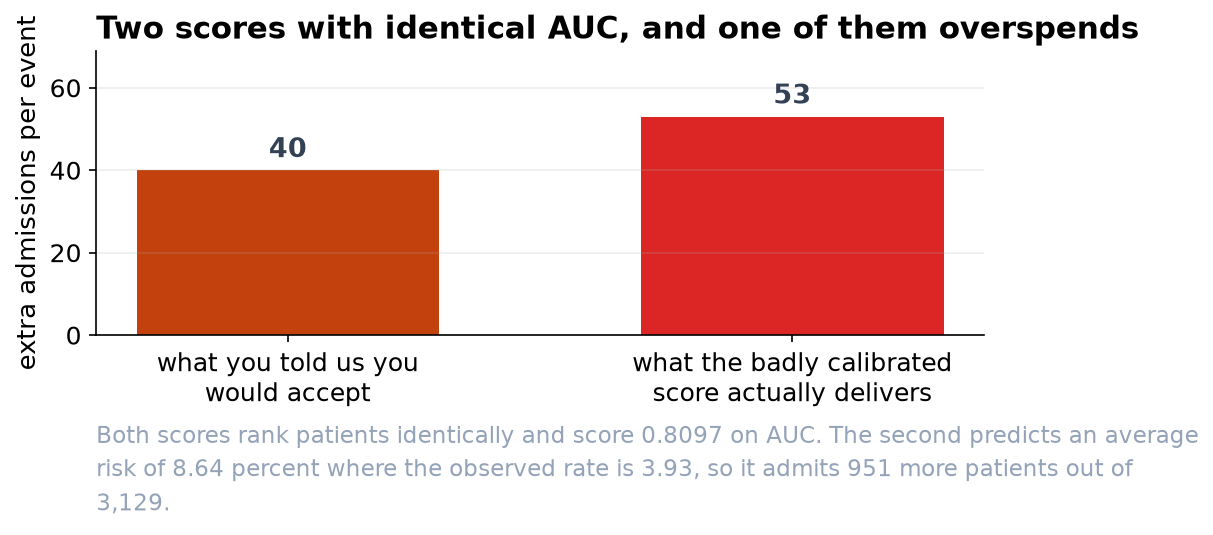
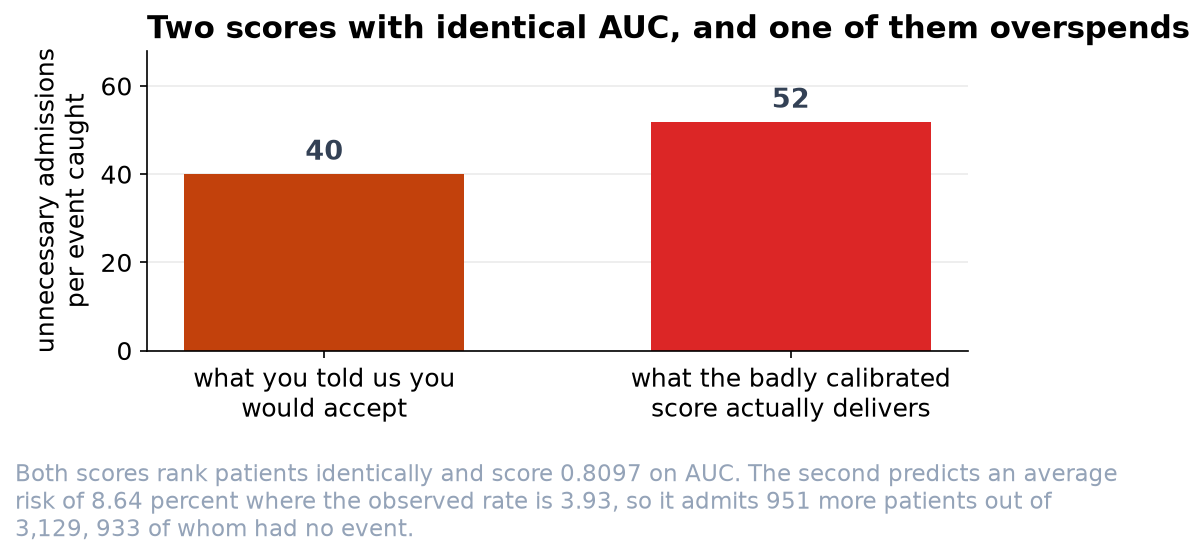
Correct ten points in Capstone: Logistic Regression for Decisions: Clinical Risk Scoring
Youden's index weighs the errors by the prevalence (about 24 to 1, now
printed), not 1:1. Model B's net benefit turns negative just above 10
percent (now printed), not at 15. Model B applies a lower threshold, not
a stricter one. The 40:1 tolerance is compared with unnecessary
admissions per event caught, 51.8 (933 of the 951, now printed), and
the brief's Figure 2 is redrawn at 52. The cleaning removes 34 zero
blood pressures (now printed). Diabetes sits just above a third of a
standard deviation, and smoking and male sex raise the event rate by
about half. Subgroup calibration points to Capstone 41. The brief's
'nine hundred a year' becomes 951 of 3,129, and the workbook Notes say
identical AUC and that the data were written for the book.

diff --git a/chapters/notebooks/html/capstone-clinical-risk-scoring.html b/chapters/notebooks/html/capstone-clinical-risk-scoring.html
@@ -8087,6 +8087,8 @@ C8 EXCLUSIONS: duplicate records, systolic BP of 0 (cuff fault) and heart rate o
 <div class="highlight hl-ipython3"><pre><span></span><span class="n">d</span> <span class="o">=</span> <span class="n">raw</span><span class="o">.</span><span class="n">drop_duplicates</span><span class="p">(</span><span class="n">subset</span><span class="o">=</span><span class="s2">"patient_id"</span><span class="p">)</span><span class="o">.</span><span class="n">copy</span><span class="p">()</span>
 <span class="nb">print</span><span class="p">(</span><span class="sa">f</span><span class="s2">"raw rows                </span><span class="si">{</span><span class="nb">len</span><span class="p">(</span><span class="n">raw</span><span class="p">)</span><span class="si">:</span><span class="s2">,</span><span class="si">}</span><span class="s2">"</span><span class="p">)</span>
 <span class="nb">print</span><span class="p">(</span><span class="sa">f</span><span class="s2">"after the duplicate extract </span><span class="si">{</span><span class="nb">len</span><span class="p">(</span><span class="n">d</span><span class="p">)</span><span class="si">:</span><span class="s2">,</span><span class="si">}</span><span class="s2">"</span><span class="p">)</span>
+<span class="nb">print</span><span class="p">(</span><span class="sa">f</span><span class="s2">"  blood pressures of 0    </span><span class="si">{</span><span class="p">(</span><span class="n">d</span><span class="o">.</span><span class="n">systolic_bp</span><span class="w"> </span><span class="o">==</span><span class="w"> </span><span class="mi">0</span><span class="p">)</span><span class="o">.</span><span class="n">sum</span><span class="p">()</span><span class="si">}</span><span class="s2">"</span><span class="p">)</span>
+<span class="nb">print</span><span class="p">(</span><span class="sa">f</span><span class="s2">"  heart rates of 999      </span><span class="si">{</span><span class="p">(</span><span class="n">d</span><span class="o">.</span><span class="n">heart_rate</span><span class="w"> </span><span class="o">==</span><span class="w"> </span><span class="mi">999</span><span class="p">)</span><span class="o">.</span><span class="n">sum</span><span class="p">()</span><span class="si">}</span><span class="s2">"</span><span class="p">)</span>
 <span class="n">d</span><span class="o">.</span><span class="n">loc</span><span class="p">[</span><span class="n">d</span><span class="o">.</span><span class="n">systolic_bp</span> <span class="o">==</span> <span class="mi">0</span><span class="p">,</span> <span class="s2">"systolic_bp"</span><span class="p">]</span> <span class="o">=</span> <span class="n">np</span><span class="o">.</span><span class="n">nan</span>      <span class="c1"># cuff fault, not a blood pressure</span>
 <span class="n">d</span><span class="o">.</span><span class="n">loc</span><span class="p">[</span><span class="n">d</span><span class="o">.</span><span class="n">heart_rate</span> <span class="o">==</span> <span class="mi">999</span><span class="p">,</span> <span class="s2">"heart_rate"</span><span class="p">]</span> <span class="o">=</span> <span class="n">np</span><span class="o">.</span><span class="n">nan</span>      <span class="c1"># monitor sentinel</span>
 <span class="n">d</span> <span class="o">=</span> <span class="n">d</span><span class="o">.</span><span class="n">dropna</span><span class="p">(</span><span class="n">subset</span><span class="o">=</span><span class="p">[</span><span class="s2">"systolic_bp"</span><span class="p">,</span> <span class="s2">"heart_rate"</span><span class="p">])</span>
@@ -8112,6 +8114,8 @@ C8 EXCLUSIONS: duplicate records, systolic BP of 0 (cuff fault) and heart rate o
 <div class="jp-RenderedText jp-OutputArea-output" data-mime-type="text/plain" tabindex="0">
 <pre>raw rows                9,060
 after the duplicate extract 9,000
+  blood pressures of 0    34
+  heart rates of 999      28
 after voiding vitals sentinels 8,938
 
 troponin assay not run  138   kept, with an indicator
@@ -8196,7 +8200,7 @@ event rate              3.94%   (352 events in 8,938 presentations)
 </div>
 <div class="jp-InputArea jp-Cell-inputArea"><div class="jp-InputPrompt jp-InputArea-prompt">
 </div><div class="jp-RenderedHTMLCommon jp-RenderedMarkdown jp-MarkdownOutput" data-mime-type="text/markdown">
-<p><strong>What this shows.</strong> Under four percent of these patients have an event, so any score is looking for a small group inside a large one. Troponin and age separate the two groups most clearly, and the classic risk factors separate them a good deal less than their reputation suggests: prior heart attack, smoking and diabetes all sit below a third of a standard deviation.</p>
+<p><strong>What this shows.</strong> Under four percent of these patients have an event, so any score is looking for a small group inside a large one. Troponin and age separate the two groups most clearly, and the classic risk factors separate them a good deal less than their reputation suggests: prior heart attack and smoking sit below a third of a standard deviation, and diabetes only just above it.</p>
 <p>The last block is worth reading carefully, because it is a check that came back clean. Patients whose troponin was never ordered turn out to look like everyone else: same median age, an event rate of 3.6 percent against 3.9, and a standardized difference of essentially zero. That does not make the decision in Step 2 wrong. It is the reason the decision was worth making rather than assuming, because had those 138 people differed, dropping them would have quietly changed who the score is for.</p>
 </div>
 </div>
@@ -8294,7 +8298,7 @@ event rate              3.94%   (352 events in 8,938 presentations)
 <div class="jp-InputArea jp-Cell-inputArea"><div class="jp-InputPrompt jp-InputArea-prompt">
 </div><div class="jp-RenderedHTMLCommon jp-RenderedMarkdown jp-MarkdownOutput" data-mime-type="text/markdown">
 <p><strong>Top left:</strong> the two distributions are shifted but they share most of their range, which is what a realistic clinical marker looks like. A score built on it will rank patients usefully and will not sort them into safe and unsafe. <strong>Top right:</strong> the oldest band runs several times the risk of the youngest and is still in single figures.</p>
-<p><strong>Bottom left:</strong> age and troponin do most of the separating. Note where <code>trop missing</code> sits, at almost exactly zero: the patients whose assay was never ordered look like everyone else, which is a check that came back clean rather than a non-event. Had they differed, dropping them in Step 2 would have quietly changed who the score is for. <strong>Bottom right:</strong> the classic risk factors, each on its own. Every one of them roughly doubles the event rate and ECG ischemia nearly triples it, and yet the highest bar on the panel is under nine percent. Having the marker is a long way from having the event.</p>
+<p><strong>Bottom left:</strong> age and troponin do most of the separating. Note where <code>trop missing</code> sits, at almost exactly zero: the patients whose assay was never ordered look like everyone else, which is a check that came back clean rather than a non-event. Had they differed, dropping them in Step 2 would have quietly changed who the score is for. <strong>Bottom right:</strong> the classic risk factors, each on its own. Prior heart attack and diabetes roughly double the event rate, smoking and male sex raise it by about half, and ECG ischemia nearly triples it, and yet the highest bar on the panel is under nine percent. Having the marker is a long way from having the event.</p>
 <p>That is the setting for everything that follows: the decision is never between certain and impossible, it is about where to put a threshold when most people above it will turn out to have been fine.</p>
 </div>
 </div>
@@ -8575,6 +8579,11 @@ It is the wrong summary for any decision where the two errors differ in cost.
 <span class="n">extra_caught</span> <span class="o">=</span> <span class="n">res</span><span class="p">[</span><span class="s2">"model B, inflated"</span><span class="p">][</span><span class="mi">1</span><span class="p">]</span> <span class="o">-</span> <span class="n">res</span><span class="p">[</span><span class="s2">"model A, calibrated"</span><span class="p">][</span><span class="mi">1</span><span class="p">]</span>
 <span class="nb">print</span><span class="p">(</span><span class="sa">f</span><span class="s2">"</span><span class="se">\n</span><span class="s2">Model B admits </span><span class="si">{</span><span class="n">extra_adm</span><span class="si">}</span><span class="s2"> more patients and catches </span><span class="si">{</span><span class="n">extra_caught</span><span class="si">}</span><span class="s2"> more events:"</span><span class="p">)</span>
 <span class="nb">print</span><span class="p">(</span><span class="sa">f</span><span class="s2">"   </span><span class="si">{</span><span class="n">extra_adm</span><span class="o">/</span><span class="n">extra_caught</span><span class="si">:</span><span class="s2">.0f</span><span class="si">}</span><span class="s2"> extra admissions per extra event caught."</span><span class="p">)</span>
+<span class="n">extra_unnec</span> <span class="o">=</span> <span class="n">extra_adm</span> <span class="o">-</span> <span class="n">extra_caught</span>
+<span class="nb">print</span><span class="p">(</span><span class="sa">f</span><span class="s2">"   </span><span class="si">{</span><span class="n">extra_unnec</span><span class="si">}</span><span class="s2"> of them had no event, </span><span class="si">{</span><span class="n">extra_unnec</span><span class="o">/</span><span class="n">extra_caught</span><span class="si">:</span><span class="s2">.1f</span><span class="si">}</span><span class="s2"> unnecessary admissions per extra event,"</span><span class="p">)</span>
+<span class="nb">print</span><span class="p">(</span><span class="sa">f</span><span class="s2">"   where the threshold allows </span><span class="si">{</span><span class="n">RATIO</span><span class="si">}</span><span class="s2">."</span><span class="p">)</span>
+<span class="nb">print</span><span class="p">(</span><span class="sa">f</span><span class="s2">"</span><span class="se">\n</span><span class="s2">Youden's index weighs a missed event at (1 - p)/p = </span><span class="si">{</span><span class="p">(</span><span class="mi">1</span><span class="w"> </span><span class="o">-</span><span class="w"> </span><span class="n">yte</span><span class="o">.</span><span class="n">mean</span><span class="p">())</span><span class="o">/</span><span class="n">yte</span><span class="o">.</span><span class="n">mean</span><span class="p">()</span><span class="si">:</span><span class="s2">.1f</span><span class="si">}</span><span class="s2"> unnecessary admissions,"</span><span class="p">)</span>
+<span class="nb">print</span><span class="p">(</span><span class="s2">"a ratio set by the prevalence that nobody chose."</span><span class="p">)</span>
 </pre></div>
 </div>
 </div>
@@ -8596,6 +8605,11 @@ threshold = 1/(1+40) = 0.0244, so admit above 2.4% risk
 
 Model B admits 951 more patients and catches 18 more events:
    53 extra admissions per extra event caught.
+   933 of them had no event, 51.8 unnecessary admissions per extra event,
+   where the threshold allows 40.
+
+Youden's index weighs a missed event at (1 - p)/p = 24.4 unnecessary admissions,
+a ratio set by the prevalence that nobody chose.
 </pre>
 </div>
 </div>
@@ -8608,7 +8622,7 @@ Model B admits 951 more patients and catches 18 more events:
 </div>
 <div class="jp-InputArea jp-Cell-inputArea"><div class="jp-InputPrompt jp-InputArea-prompt">
 </div><div class="jp-RenderedHTMLCommon jp-RenderedMarkdown jp-MarkdownOutput" data-mime-type="text/markdown">
-<p><strong>Model B misses nothing, and that is not the good news it looks like.</strong> It buys those eighteen events at fifty-three extra admissions each. The clinicians said forty. <strong>A miscalibrated model does not become more cautious, it silently applies a different threshold than the one the clinical team chose</strong>, and nobody in the room knows the trade-off has been changed.</p>
+<p><strong>Model B misses nothing, and that is not the good news it looks like.</strong> It buys those eighteen events with 933 admissions of patients who had no event, about fifty-two for each event caught. The clinicians said forty. <strong>A miscalibrated model does not become more cautious, it silently applies a different threshold than the one the clinical team chose</strong>, and nobody in the room knows the trade-off has been changed.</p>
 <p>That is the practical damage calibration error does. It does not show up as a worse ranking. It shows up as a rule that no longer implements the decision it was asked to implement.</p>
 </div>
 </div>
@@ -8642,6 +8656,8 @@ Model B admits 951 more patients and catches 18 more events:
     <span class="n">nb_all</span> <span class="o">=</span> <span class="n">yte</span><span class="o">.</span><span class="n">mean</span><span class="p">()</span> <span class="o">-</span> <span class="p">(</span><span class="mi">1</span><span class="o">-</span><span class="n">yte</span><span class="o">.</span><span class="n">mean</span><span class="p">())</span><span class="o">*</span><span class="p">(</span><span class="n">t_</span><span class="o">/</span><span class="p">(</span><span class="mi">1</span><span class="o">-</span><span class="n">t_</span><span class="p">))</span>
     <span class="nb">print</span><span class="p">(</span><span class="sa">f</span><span class="s2">"</span><span class="si">{</span><span class="n">t_</span><span class="si">:</span><span class="s2">&gt;10.4f</span><span class="si">}{</span><span class="n">net_benefit</span><span class="p">(</span><span class="n">pA</span><span class="p">,</span><span class="n">yte</span><span class="p">,</span><span class="n">t_</span><span class="p">)</span><span class="si">:</span><span class="s2">&gt;10.4f</span><span class="si">}{</span><span class="n">net_benefit</span><span class="p">(</span><span class="n">pB</span><span class="p">,</span><span class="n">yte</span><span class="p">,</span><span class="n">t_</span><span class="p">)</span><span class="si">:</span><span class="s2">&gt;10.4f</span><span class="si">}</span><span class="s2">"</span>
           <span class="sa">f</span><span class="s2">"</span><span class="si">{</span><span class="n">nb_all</span><span class="si">:</span><span class="s2">&gt;12.4f</span><span class="si">}{</span><span class="mf">0.0</span><span class="si">:</span><span class="s2">&gt;12.4f</span><span class="si">}</span><span class="s2">"</span><span class="p">)</span>
+<span class="n">cross</span> <span class="o">=</span> <span class="nb">next</span><span class="p">(</span><span class="n">t_</span> <span class="k">for</span> <span class="n">t_</span> <span class="ow">in</span> <span class="n">np</span><span class="o">.</span><span class="n">arange</span><span class="p">(</span><span class="mf">0.05</span><span class="p">,</span> <span class="mf">0.20</span><span class="p">,</span> <span class="mf">0.001</span><span class="p">)</span> <span class="k">if</span> <span class="n">net_benefit</span><span class="p">(</span><span class="n">pB</span><span class="p">,</span> <span class="n">yte</span><span class="p">,</span> <span class="n">t_</span><span class="p">)</span> <span class="o">&lt;</span> <span class="mi">0</span><span class="p">)</span>
+<span class="nb">print</span><span class="p">(</span><span class="sa">f</span><span class="s2">"</span><span class="se">\n</span><span class="s2">model B's net benefit first falls below zero at a threshold of </span><span class="si">{</span><span class="n">cross</span><span class="si">:</span><span class="s2">.1%</span><span class="si">}</span><span class="s2">"</span><span class="p">)</span>
 </pre></div>
 </div>
 </div>
@@ -8661,6 +8677,8 @@ Model B admits 951 more patients and catches 18 more events:
     0.0700    0.0116    0.0052     -0.0330      0.0000
     0.1000    0.0069    0.0003     -0.0674      0.0000
     0.1500    0.0053   -0.0037     -0.1302      0.0000
+
+model B's net benefit first falls below zero at a threshold of 10.1%
 </pre>
 </div>
 </div>
@@ -8866,7 +8884,7 @@ on the training set it would have looked like a small improvement, every time.
 </div>
 <div class="jp-InputArea jp-Cell-inputArea"><div class="jp-InputPrompt jp-InputArea-prompt">
 </div><div class="jp-RenderedHTMLCommon jp-RenderedMarkdown jp-MarkdownOutput" data-mime-type="text/markdown">
-<p><strong>Left:</strong> net benefit across every threshold a clinician might hold. Model A is above model B throughout, and both are above the two trivial strategies in the region that matters. <strong>Right:</strong> the same threshold applied to both models. Model B misses no events and admits 951 more people to do it, which is fifty-three extra admissions for each extra event, against a stated tolerance of forty.</p>
+<p><strong>Left:</strong> net benefit across every threshold a clinician might hold. Model A is above model B throughout, and both are above the two trivial strategies in the region that matters. <strong>Right:</strong> the same threshold applied to both models. Model B misses no events and admits 951 more people to do it, 933 of whom had no event, which is about fifty-two unnecessary admissions for each extra event caught, against a stated tolerance of forty.</p>
 </div>
 </div>
 </div>
@@ -8884,7 +8902,7 @@ on the training set it would have looked like a small improvement, every time.
 <li><strong>Never quote accuracy on an imbalanced outcome.</strong> Sending everybody home scores 96.1 percent here.</li>
 <li><strong>Validate on data the model has never seen, and say so.</strong> A decoy variable with no real effect improves training performance every single time.</li>
 <li><strong>A risk score is not a diagnosis.</strong> It estimates a rate in a group of similar patients, and no individual has a 4 percent event. The score belongs alongside clinical judgment, not in place of it.</li>
-<li><strong>Check who the model works for.</strong> This analysis reports one AUC and one calibration curve for the whole cohort. Performance can differ substantially by age, sex or ethnicity, and a score that is well calibrated on average can be badly calibrated for a subgroup that the average conceals. Capstone 33 takes that up directly.</li>
+<li><strong>Check who the model works for.</strong> This analysis reports one AUC and one calibration curve for the whole cohort. Performance can differ substantially by age, sex or ethnicity, and a score that is well calibrated on average can be badly calibrated for a subgroup that the average conceals. Capstone 41, the fairness audit, takes that up directly.</li>
 </ul>
 </div>
 </div>

diff --git a/chapters/capstone-clinical-risk-scoring.html b/chapters/capstone-clinical-risk-scoring.html
@@ -135,8 +135,8 @@
         <p>Two models, <strong>AUC 0.8097 both</strong>, identical to four decimals. One predicts a mean risk of
            <strong>3.93 percent</strong> against an observed <strong>3.93 percent</strong>. The other predicts
            <strong>8.64 percent</strong>. At the clinicians' own threshold the second admits <strong>951 more
-           patients</strong> to catch 18 more events, which is 53 admissions each against a stated tolerance of
-           40.</p></div>
+           patients</strong> to catch 18 more events. 933 of them had no event, about 52 unnecessary admissions per event caught,
+           against a stated tolerance of 40.</p></div>
     </div>
   </section>
 
@@ -153,13 +153,13 @@
         <tr><th>The default</th><th>Why it fails here</th></tr>
         <tr><td class="nm">Report accuracy</td><td>The event rate is 3.9 percent. Sending everybody home scores 96.1 percent</td></tr>
         <tr class="hi"><td class="nm">Report AUC</td><td>Answers a question about ranking. The decision needs the level</td></tr>
-        <tr><td class="nm">Pick the threshold from the ROC curve</td><td>Youden's index encodes a cost ratio of 1:1, silently, and nobody agreed to that</td></tr>
+        <tr><td class="nm">Pick the threshold from the ROC curve</td><td>Youden's index weighs the two errors by the prevalence, about 24 to 1 here, and nobody agreed to that</td></tr>
         <tr><td class="nm">Drop rows with missing predictors</td><td>A troponin assay that was not ordered is informative about how the patient presented</td></tr>
         <tr><td class="nm">Evaluate on the training set</td><td>A variable with no real effect improves training performance every single time</td></tr>
       </table>
     </div>
 
-    <p>After removing a duplicated extract, 35 blood pressures of zero from a cuff fault and 28 heart rates of 999 from
+    <p>After removing a duplicated extract, 34 blood pressures of zero from a cuff fault and 28 heart rates of 999 from
        a monitor sentinel, 8,938 presentations remain. The 138 patients with no troponin result are kept, with an
        indicator, because dropping them would quietly restrict the score to patients somebody already thought were
        worth testing.</p>
@@ -238,7 +238,7 @@
     </div>
 
     <p>Model B misses nothing, and <strong>that is not the good news it appears to be</strong>. It buys those eighteen
-       events at 951 extra admissions, or 53 each. The clinicians said 40. A miscalibrated model does not become more
+       events at 951 extra admissions, 933 of them patients with no event, or about 52 unnecessary admissions each. The clinicians said 40. A miscalibrated model does not become more
        cautious; it <strong>silently applies a different threshold than the one the clinical team chose</strong>, and
        nobody in the room knows the trade-off has been changed.</p>
 
@@ -273,12 +273,12 @@
 
     <p>Model A is better at every threshold anybody would choose, and the gap widens as the threshold rises. Two other
        things are worth reading off this table. Admitting everyone becomes worse than doing nothing above about a 4
-       percent threshold. And model B goes <em>negative</em> at 15 percent, meaning that at that cost ratio a clinician
+       percent threshold. And model B goes <em>negative</em> just above 10 percent, meaning that at that cost ratio a clinician
        would do better ignoring it entirely.</p>
 
     <figure class="nb-fig">
       <img src="../assets/img/capstone-risk-decision.png"
-           alt="Left: net benefit against threshold risk from 0.5 to 20 percent. Model A's curve is highest throughout, model B's is below it and crosses zero near 15 percent, the admit-everyone line falls steeply and crosses zero near 4 percent, and a vertical line marks the clinicians' 2.4 percent threshold. Right: grouped bars on a log scale comparing the two models at that threshold, showing 1,305 versus 2,256 admitted, 105 versus 123 events caught, and 18 versus 0 events missed.">
+           alt="Left: net benefit against threshold risk from 0.5 to 20 percent. Model A's curve is highest throughout, model B's is below it and crosses zero near 10 percent, the admit-everyone line falls steeply and crosses zero near 4 percent, and a vertical line marks the clinicians' 2.4 percent threshold. Right: grouped bars on a log scale comparing the two models at that threshold, showing 1,305 versus 2,256 admitted, 105 versus 123 events caught, and 18 versus 0 events missed.">
       <figcaption><strong>Left:</strong> net benefit across every threshold a clinician might hold. A score earns its
         place by beating both trivial strategies across the range of costs people actually hold.
         <strong>Right:</strong> the same threshold applied to both models.</figcaption>
@@ -316,7 +316,7 @@
       <li><span class="ck">&#10003;</span><span><strong>A miscalibrated model overrides the clinical team without telling them.</strong> Model B does not look reckless or broken. It looks careful, and it is applying a threshold nobody chose.</span></li>
       <li><span class="ck">&#10003;</span><span><strong>Never quote accuracy on an imbalanced outcome.</strong> Sending everybody home scores 96.1 percent here and misses all 123 events.</span></li>
       <li><span class="ck">&#10003;</span><span><strong>A risk score is not a diagnosis.</strong> It estimates a rate among similar patients. No individual has a 4 percent event, and the score belongs alongside clinical judgment rather than in place of it.</span></li>
-      <li><span class="ck">&#10003;</span><span><strong>Check who the model works for.</strong> One AUC and one calibration curve describe the whole cohort. A score well calibrated on average can be badly calibrated for a subgroup the average conceals, which Capstone 33 takes up directly.</span></li>
+      <li><span class="ck">&#10003;</span><span><strong>Check who the model works for.</strong> One AUC and one calibration curve describe the whole cohort. A score well calibrated on average can be badly calibrated for a subgroup the average conceals, which <a href="capstone-fairness-audit.html">Capstone 41</a> takes up directly.</span></li>
     </ul>
   </section>
 
@@ -397,7 +397,7 @@
         <li><span class="ck">&#10003;</span><span><strong>AUC reads order, decisions read level.</strong> Two models with AUC 0.8097 differed by a factor of two in predicted risk.</span></li>
         <li><span class="ck">&#10003;</span><span><strong>The calibration slope missed it too.</strong> Both scored 0.980; only the intercept, &#8722;0.983 against 0, caught the fault.</span></li>
         <li><span class="ck">&#10003;</span><span><strong>Thresholds come from costs.</strong> A 40:1 cost ratio fixes the threshold at 2.4 percent, and no statistical criterion can supply that ratio.</span></li>
-        <li><span class="ck">&#10003;</span><span><strong>Miscalibration looks like caution.</strong> Model B missed zero events by admitting 951 extra patients, 53 per event against a stated tolerance of 40.</span></li>
+        <li><span class="ck">&#10003;</span><span><strong>Miscalibration looks like caution.</strong> Model B missed zero events by admitting 951 extra patients, 933 of them without an event, about 52 per event caught against a stated tolerance of 40.</span></li>
         <li><span class="ck">&#10003;</span><span><strong>Accuracy is meaningless at a 3.9 percent event rate.</strong> Sending everybody home scores 96.1 percent.</span></li>
       </ul>
     </div>
@@ -454,13 +454,13 @@ window.addEventListener('scroll', () => {
       q: "The clinicians judge a missed event 40 times worse than an unnecessary admission. What threshold does that imply?",
       options: ["40 percent", "2.4 percent, from 1/(1+40)", "The value that maximizes Youden's index", "5 percent, by convention"],
       answer: 1,
-      explain: "The threshold is a statement about the relative cost of the two errors. Youden's index and the elbow of the ROC curve both encode a 1:1 ratio silently, which is almost never the ratio anybody holds."
+      explain: "The threshold is a statement about the relative cost of the two errors. Youden's index and the elbow of the ROC curve both encode a cost ratio silently. For Youden it is set by the prevalence, about 24 to 1 here, and nobody chose it."
     },
     {
       q: "At the 2.4 percent threshold model B missed zero events while model A missed 18. Why is model A still preferred?",
-      options: ["Because model A has a higher AUC", "Because model B admitted 951 extra patients for those 18 events, or 53 each, against a stated tolerance of 40", "Because model B is overfitted", "Because missing events is acceptable"],
+      options: ["Because model A has a higher AUC", "Because model B admitted 951 extra patients for those 18 events, about 52 unnecessary admissions each, against a stated tolerance of 40", "Because model B is overfitted", "Because missing events is acceptable"],
       answer: 1,
-      explain: "Miscalibration does not look like error, it looks like caution. Model B is silently applying a stricter threshold than the clinical team chose, and the decision curve confirms A is better at every threshold."
+      explain: "Miscalibration does not look like error, it looks like caution. Model B is silently applying a lower threshold than the clinical team chose, and the decision curve confirms A is better at every threshold."
     },
     {
       q: "A rule that admits nobody achieves 96.07 percent accuracy on this data. What does that show?",
@@ -475,7 +475,7 @@ window.addEventListener('scroll', () => {
       explain: "That asymmetry is the entire argument for a held-out test set, and it is why the analysis plan committed to one before anything was fitted."
     },
     {
-      q: "Decision curve analysis showed model B's net benefit turning negative at a 15 percent threshold. What does a negative net benefit mean?",
+      q: "Decision curve analysis showed model B's net benefit turning negative just above a 10 percent threshold. What does a negative net benefit mean?",
       options: ["The model has no discriminative ability", "A clinician holding that cost ratio would do better ignoring the model entirely and admitting nobody", "The threshold is impossible", "The calibration slope is below 1"],
       answer: 1,
       explain: "Net benefit is measured against the trivial strategies. Falling below zero means the rule is worse than the do-nothing baseline at that cost ratio, which no discrimination metric would ever reveal."

diff --git a/reports/capstone-27-clinical-risk-scoring-technical.html b/reports/capstone-27-clinical-risk-scoring-technical.html
@@ -79,7 +79,7 @@
       <div class="rpt-keywords"><b>Keywords:</b> logistic regression; clinical prediction model; calibration; Brier score; calibration slope and intercept; decision curve analysis; net benefit; class imbalance; discrimination; AUC.</div>
       <h2>1. Cohort and data preparation</h2>
       <div class="rpt-cap"><span class="n">Table 1.</span> Cohort construction. Stratified random split.</div>
-      <div class="rpt-tablewrap" tabindex="0"><table class="rpt-table"><thead><tr><th>Stage</th><th>n</th><th>Note</th></tr></thead><tbody><tr><td><span class='nm'>Extract</span></td><td>9,060</td><td>Executed twice</td></tr><tr><td><span class='nm'>Deduplicated</span></td><td>9,000</td><td>One record per presentation</td></tr><tr><td><span class='nm'>Valid vital signs</span></td><td>8,938</td><td>35 systolic values of 0 and 28 heart rates of 999 voided as device sentinels</td></tr><tr><td><span class='nm'>Training</span></td><td>5,809</td><td>3.94% events</td></tr><tr><td><span class='nm'>Held out</span></td><td>3,129</td><td>3.93% events, 123 in total</td></tr></tbody></table></div>
+      <div class="rpt-tablewrap" tabindex="0"><table class="rpt-table"><thead><tr><th>Stage</th><th>n</th><th>Note</th></tr></thead><tbody><tr><td><span class='nm'>Extract</span></td><td>9,060</td><td>Executed twice</td></tr><tr><td><span class='nm'>Deduplicated</span></td><td>9,000</td><td>One record per presentation</td></tr><tr><td><span class='nm'>Valid vital signs</span></td><td>8,938</td><td>34 systolic values of 0 and 28 heart rates of 999 voided as device sentinels</td></tr><tr><td><span class='nm'>Training</span></td><td>5,809</td><td>3.94% events</td></tr><tr><td><span class='nm'>Held out</span></td><td>3,129</td><td>3.93% events, 123 in total</td></tr></tbody></table></div>
       <p>One hundred and thirty-eight presentations had no troponin assay. These were retained with a missingness indicator and median substitution rather than excluded. The decision to order a high-sensitivity troponin is itself clinically informative, and listwise deletion would restrict the model's applicability to patients already judged to warrant testing, which is not the population the score is intended for.</p>
       <h2>2. Discrimination is invariant to the level</h2>
       <p>A second model was constructed as logit(p&#8322;) = logit(p&#8321;) + 0.95. This transformation is strictly monotone and therefore preserves the rank order of predicted risk exactly, with a Spearman correlation of 1.</p>
@@ -91,12 +91,12 @@
       <p>Under an expected-utility formulation, the threshold probability at which admitting and discharging are indifferent equals the ratio of the cost of a false positive to the sum of the costs of a false positive and a false negative. A clinician-specified ratio of 40 gives a threshold of 1/41 = 0.0244.</p>
       <div class="rpt-cap"><span class="n">Table 3.</span> Consequences at a threshold of 2.44% on 3,129 held-out presentations.</div>
       <div class="rpt-tablewrap" tabindex="0"><table class="rpt-table"><thead><tr><th>Model</th><th>Admitted</th><th>Events captured</th><th>Events missed</th><th>Admission rate</th></tr></thead><tbody><tr><td><span class='nm'>A, calibrated</span></td><td>1,305</td><td>105</td><td>18</td><td>41.7%</td></tr><tr><td><span class='nm'>B, shifted</span></td><td>2,256</td><td>123</td><td>0</td><td>72.1%</td></tr></tbody></table></div>
-      <p>Model B captures 18 additional events at a cost of 951 additional admissions, a marginal exchange rate of 53:1 against a specified tolerance of 40:1. It is not operating more conservatively in a way the clinical team chose; it is operating at a different threshold from the one specified, without that substitution being visible in any reported metric.</p>
+      <p>Model B captures 18 additional events at a cost of 951 additional admissions, 933 of them patients without an event, a marginal exchange rate of about 52:1 against a specified tolerance of 40:1. It is not operating more conservatively in a way the clinical team chose; it is operating at a different threshold from the one specified, without that substitution being visible in any reported metric.</p>
       <p>It should also be noted that a policy of admitting no patients attains an accuracy of 96.07% on this cohort. Accuracy is not reported elsewhere in this document and should not be reported for outcomes at this prevalence.</p>
       <h2>4. Net benefit</h2>
       <div class="rpt-cap"><span class="n">Table 4.</span> Net benefit by threshold probability.</div>
       <div class="rpt-tablewrap" tabindex="0"><table class="rpt-table"><thead><tr><th>Threshold</th><th>Model A</th><th>Model B</th><th>Treat all</th><th>Treat none</th></tr></thead><tbody><tr><td>1.00%</td><td>0.0319</td><td>0.0305</td><td>0.0296</td><td>0</td></tr><tr><td>2.44%</td><td>0.0240</td><td>0.0223</td><td>0.0153</td><td>0</td></tr><tr><td>4.00%</td><td>0.0174</td><td>0.0148</td><td>&#8722;0.0007</td><td>0</td></tr><tr><td>7.00%</td><td>0.0116</td><td>0.0052</td><td>&#8722;0.0330</td><td>0</td></tr><tr><td>10.00%</td><td>0.0069</td><td>0.0003</td><td>&#8722;0.0674</td><td>0</td></tr><tr><td>15.00%</td><td>0.0053</td><td>&#8722;0.0037</td><td>&#8722;0.1302</td><td>0</td></tr></tbody></table></div>
-      <p>Model A dominates model B throughout, and the separation widens with the threshold. Model B attains negative net benefit at 15%, indicating that a decision maker holding that cost ratio would obtain a better expected outcome by disregarding the model entirely. No discrimination metric would disclose this.</p>
+      <p>Model A dominates model B throughout, and the separation widens with the threshold. Model B attains negative net benefit above a threshold of about 10%, indicating that a decision maker holding that cost ratio would obtain a better expected outcome by disregarding the model entirely. No discrimination metric would disclose this.</p>
       <figure class="rpt-fig"><img src="../assets/img/capstone-risk-decision.png" alt="A decision curve and a grouped bar chart of admissions, events captured and events missed."><figcaption><span class="n">Figure 1.</span> Net benefit across thresholds for both models against treat-all and treat-none, and the admission consequences at the derived threshold.</figcaption></figure>
       <h2>5. Specification check</h2>
       <p>A variable with no relationship to the outcome, month of arrival, was included as a negative control. Held-out AUC changed from 0.8097 to 0.8091 and its fitted coefficient was +0.046 against a true value of zero. In-sample performance necessarily improves with any additional parameter, which is the operative argument for the held-out design specified before fitting.</p>
@@ -105,7 +105,7 @@
       <p>The corresponding recommendation is that calibration intercept and slope, the threshold with the cost ratio from which it was derived, and net benefit against the trivial strategies should appear alongside discrimination in any report on a model intended to support a decision.</p>
       <p>Limitations. Performance is reported for the cohort as a whole. A model adequately calibrated in aggregate may be poorly calibrated within subgroups defined by age, sex or ethnicity, and subgroup calibration should be assessed prior to deployment. Validation is internal, using a random split of a single-center cohort; temporal and external validation are required before generalization is claimed. Calibration should be re-assessed at fixed intervals following deployment, since drift is expected rather than exceptional.</p>
       <h2>7. Conclusion</h2>
-      <p>A logistic risk score attained an AUC of 0.8097 with calibration intercept &#8722;0.053 and slope 0.980 on 3,129 held-out presentations. A model with identical AUC and a calibration intercept of &#8722;0.983 would, at the same clinician-derived threshold of 2.44%, admit 951 additional patients per 3,129 presentations at a marginal cost of 53 admissions per additional event captured. Discrimination metrics cannot distinguish the two.</p>
+      <p>A logistic risk score attained an AUC of 0.8097 with calibration intercept &#8722;0.053 and slope 0.980 on 3,129 held-out presentations. A model with identical AUC and a calibration intercept of &#8722;0.983 would, at the same clinician-derived threshold of 2.44%, admit 951 additional patients per 3,129 presentations 933 of them without an event, at a marginal cost of about 52 unnecessary admissions per additional event captured. Discrimination metrics cannot distinguish the two.</p>
       <h2>References</h2>
       <ul class="rpt-refs"><li>Brier, G. W. (1950). Verification of forecasts expressed in terms of probability. <em>Monthly Weather Review</em>, 78(1), 1&#8211;3.</li><li>Cox, D. R. (1958). Two further applications of a model for binary regression. <em>Biometrika</em>, 45(3/4), 562&#8211;565.</li><li>Vickers, A. J., &amp; Elkin, E. B. (2006). Decision curve analysis: a novel method for evaluating prediction models. <em>Medical Decision Making</em>, 26(6), 565&#8211;574.</li><li>Steyerberg, E. W., Vickers, A. J., Cook, N. R., et al. (2010). Assessing the performance of prediction models: a framework for traditional and novel measures. <em>Epidemiology</em>, 21(1), 128&#8211;138.</li><li>Van Calster, B., McLernon, D. J., van Smeden, M., et al. (2019). Calibration: the Achilles heel of predictive analytics. <em>BMC Medicine</em>, 17, 230.</li><li>Collins, G. S., Reitsma, J. B., Altman, D. G., &amp; Moons, K. G. M. (2015). Transparent reporting of a multivariable prediction model for individual prognosis or diagnosis (TRIPOD). <em>BMJ</em>, 350, g7594.</li><li>Guo, C., Pleiss, G., Sun, Y., &amp; Weinberger, K. Q. (2017). On calibration of modern neural networks. <em>Proceedings of ICML 2017</em>.</li><li>Platt, J. (1999). Probabilistic outputs for support vector machines and comparisons to regularized likelihood methods. <em>Advances in Large Margin Classifiers</em>.</li></ul>
       <h2>Reproducibility</h2>

diff --git a/reports/capstone-27-clinical-risk-scoring.html b/reports/capstone-27-clinical-risk-scoring.html
@@ -4,14 +4,14 @@
   <meta charset="UTF-8">
   <meta name="viewport" content="width=device-width, initial-scale=1.0">
   <title>Clinical Risk Scoring (Brief) &#183; Statistics, Data Science and AI</title>
-  <meta name="description" content="The Score Is Ready. Do Not Judge It on AUC. We built two versions with identical AUC. One of them would admit nine hundred extra patients a year without anyone noticing why.">
+  <meta name="description" content="The Score Is Ready. Do Not Judge It on AUC. We built two versions with identical AUC. One of them would admit 951 more of 3,129 patients without anyone noticing why.">
   <meta name="author" content="John Fisher">
   <link rel="canonical" href="https://johnfisher-ai.github.io/Statistics-Data-Science-AI-Visual-Book/reports/capstone-27-clinical-risk-scoring.html">
 
   <meta property="og:type" content="article">
   <meta property="og:site_name" content="Statistics, Data Science and AI: A Visual Handbook">
   <meta property="og:title" content="Clinical Risk Scoring (Brief) · Capstone 27">
-  <meta property="og:description" content="The Score Is Ready. Do Not Judge It on AUC. We built two versions with identical AUC. One of them would admit nine hundred extra patients a year without anyone noticing why.">
+  <meta property="og:description" content="The Score Is Ready. Do Not Judge It on AUC. We built two versions with identical AUC. One of them would admit 951 more of 3,129 patients without anyone noticing why.">
   <meta property="og:url" content="https://johnfisher-ai.github.io/Statistics-Data-Science-AI-Visual-Book/reports/capstone-27-clinical-risk-scoring.html">
   <meta property="og:image" content="https://johnfisher-ai.github.io/Statistics-Data-Science-AI-Visual-Book/assets/img/social-card-v2.png">
   <meta property="og:image:width" content="2400">
@@ -19,7 +19,7 @@
 
   <meta name="twitter:card" content="summary_large_image">
   <meta name="twitter:title" content="Clinical Risk Scoring (Brief) · Capstone 27">
-  <meta name="twitter:description" content="The Score Is Ready. Do Not Judge It on AUC. We built two versions with identical AUC. One of them would admit nine hundred extra patients a year without anyone noticing why.">
+  <meta name="twitter:description" content="The Score Is Ready. Do Not Judge It on AUC. We built two versions with identical AUC. One of them would admit 951 more of 3,129 patients without anyone noticing why.">
   <meta name="twitter:image" content="https://johnfisher-ai.github.io/Statistics-Data-Science-AI-Visual-Book/assets/img/social-card-v2.png">
   <link rel="icon" href="../assets/img/favicon.svg" type="image/svg+xml">
   <link rel="apple-touch-icon" href="../assets/img/apple-touch-icon.png">
@@ -65,7 +65,7 @@
         <span class="rpt-badge brief">Plain-language Brief</span>
       </div>
       <h1>The Score Is Ready. Do Not Judge It on AUC.</h1>
-      <p class="rpt-sub">We built two versions with identical AUC. One of them would admit nine hundred extra patients a year without anyone noticing why.</p>
+      <p class="rpt-sub">We built two versions with identical AUC. One of them would admit 951 more of 3,129 patients without anyone noticing why.</p>
       <div class="rpt-meta"><div><b>To</b> &nbsp;Clinical Lead, Emergency Medicine</div><div><b>From</b> &nbsp;Clinical Analytics</div><div><b>Re</b> &nbsp;30-day cardiac risk score, chest pain pathway</div></div>
     </header>
 
@@ -80,11 +80,11 @@
       <h2>The thing we would like you to take away</h2>
       <p>We built two versions of this score. They rank patients in exactly the same order, so they have the same AUC to four decimal places, and any evaluation that stops at AUC would call them equally good.</p>
       <p>One of them says that about 4 in 100 of these patients will have an event, which matches what actually happens. The other says about 9 in 100. It is wrong by more than double, and nothing in a standard model report would show it.</p>
-      <div class="rpt-key"><span class="k-tag">Why that matters to you specifically</span><p>Put both through your 2.4 percent threshold and the second one admits <strong>951 more patients</strong> out of 3,129. It misses no events at all, which sounds better until you price it: that is <strong>53 extra admissions for each extra event caught</strong>, against the 40 you told us you would accept. <strong>A badly calibrated score does not look reckless. It looks careful, and it is quietly making a different trade than the one you chose.</strong></p></div>
+      <div class="rpt-key"><span class="k-tag">Why that matters to you specifically</span><p>Put both through your 2.4 percent threshold and the second one admits <strong>951 more patients</strong> out of 3,129. It misses no events at all, which sounds better until you price it: that is <strong>about 52 admissions of patients with no event for each extra event caught</strong>, against the 40 you told us you would accept. <strong>A badly calibrated score does not look reckless. It looks careful, and it is quietly making a different trade than the one you chose.</strong></p></div>
       <figure class="rpt-fig"><img src="../assets/img/capstone-risk-calibration.png" alt="Two identical ROC curves, and a calibration plot with one series on the diagonal and one below it."><figcaption><span class="n">Figure 1.</span> Left: the two versions have the same ROC curve, drawn one on top of the other. Right: how the predicted risk compares with what actually happened. The good version follows the diagonal; the other sits well below it.</figcaption></figure>
       <h2>What the score does at your threshold</h2>
       <ul><li><strong>Admits 1,305 of 3,129 presentations</strong> and catches 105 of the 123 events.</li><li><strong>Misses 18 events.</strong> We want to be direct about that number: no threshold catches everything, and moving it down to catch more costs admissions at an accelerating rate. If 18 is unacceptable, the right response is to revisit the 40:1 ratio with us rather than to adjust the score.</li><li><strong>Beats both fallbacks across every threshold anyone might reasonably choose</strong>, which is the test a score has to pass to be worth using at all. Admitting every chest pain presentation is worse than doing nothing once the threshold rises above about 4 percent.</li></ul>
-      <figure class="rpt-fig"><img src="../assets/img/report-27-calibration.png" alt="Bar chart: the accepted trade is 40 extra admissions per extra event caught; the badly calibrated score delivers 53."><figcaption><span class="n">Figure 2.</span> What a badly calibrated score costs at your own threshold, in the units you set.</figcaption></figure>
+      <figure class="rpt-fig"><img src="../assets/img/report-27-calibration.png" alt="Bar chart: the accepted trade is 40 unnecessary admissions per extra event caught, and the badly calibrated score delivers 52."><figcaption><span class="n">Figure 2.</span> What a badly calibrated score costs at your own threshold, in the units you set.</figcaption></figure>
       <h2>What we are not claiming</h2>
       <p>The score estimates a rate among similar patients. No individual has a 4 percent event, and a number below the threshold is not a clearance. It should sit alongside clinical judgment and never in place of it, and any clinician overriding it should be able to do so without justifying themselves.</p>
       <p>We have reported one figure for the whole cohort. A score that is well calibrated on average can be poorly calibrated for a subgroup, and we have not yet checked performance by age, sex or ethnicity. We would want that done before deployment, not after.</p>
